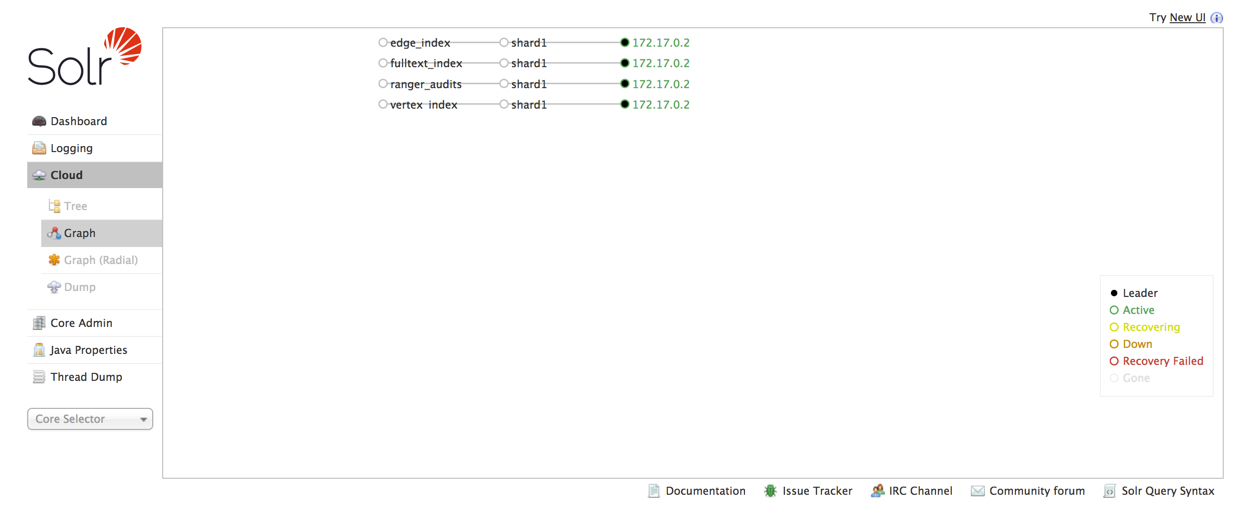
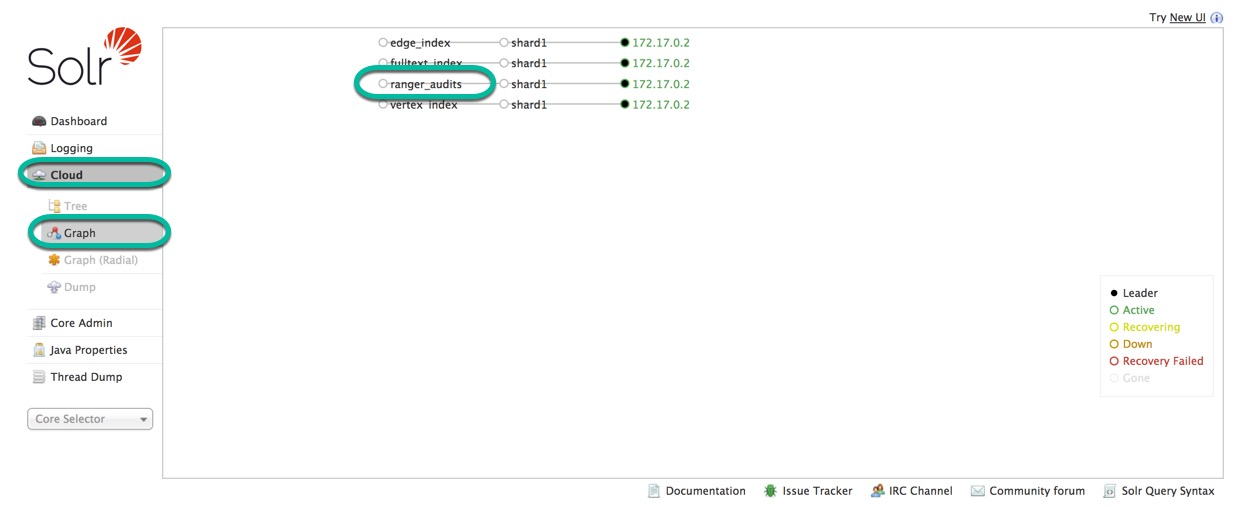
minor changes

diff --git a/tutorials/hdp/tag-based-policies-with-apache-ranger-and-apache-atlas/tutorial.md b/tutorials/hdp/tag-based-policies-with-apache-ranger-and-apache-atlas/tutorial.md
@@ -158,10 +158,15 @@ Stopping a service uses a similar approach as in section **2.1**, but instead of
 
 > Note: sometimes **Atlas Metadata Server** will fail to restart, all you need to do is go to the component and individually start it
 
-### 2.4 Verify "ranger_audits" Infra Solr Collection Created
+### 2.4 Verify "ranger_audits" is created in Ambari Infra Solr
 
-Once we restart Ranger, it should go into Infra Solr and create a new Solr
-Collection called "ranger_audits" as in the picture below:
+Once we restart Ranger, you should verify that **ranger_audits** is started:
+
+**Ambari** -> **Ambari Infra** -> **Quick Links** -> **Solr Admin UI**
+
+Make sure "ranger_audits" is displayed in Ambari Infra Solr as in the picture below:
+
+**Dashboard** -> **Cloud** -> **Graph**
 
 ![verify_ranger_audit_solr_collection_created](assets/images/verify_ranger_audit_solr_collection_created.jpg)
 
@@ -213,7 +218,7 @@ Press `Sign In` button, the home page of Ranger will be displayed.
 
 **Figure 14: Ranger Resource Based Policies Dashboard**
 
-3\. You will see a list of all the policies under the Sandbox_hive repository. Select policy called: **policy for raj_ops, holger_gov, maria_dev and amy_ds**
+3\. You will see a list of all the policies under the Sandbox_hive repository. Edit policy called: **policy for raj_ops, holger_gov, maria_dev and amy_ds**
 
 ![click_policy_for_all_users_rajops](assets/images/click_policy_for_all_users_rajops.png)
 
@@ -338,7 +343,7 @@ This policy will be assigned to `maria_dev` and `raj_ops`.
 3\. In the `Policy Details`, enter following values:
 
 ~~~
-Policy Names - policy to restrict employee data
+Policy Name - policy to restrict employee data
 Hive Databases - default
 table - employee
 Hive_column - ssn, location (NOTE : Do NOT forget to EXCLUDE these columns)
@@ -402,7 +407,7 @@ select * from employee;
 Authorization error will appear. This is expected as the user `maria_dev` and
 `raj_ops` do not have access to 2 columns in this table (ssn and location).
 
-4\. For further verification, you can view the **Audits** tab in Ranger.
+4\. For further verification, you can view the **Audit** tab in Ranger.
 Go back to Ranger and click on `Audits=>Access` and select
 `Service Name=>Sandbox_hive`. You will see the entry of Access Denied
 for maria_dev. maria_dev tried to access data she didn't have authorization
@@ -435,7 +440,7 @@ with a `PII` tag. So later when we create a Ranger Tag Based Policy, users
 who are associated with the `PII` tag can override permissions established in
 the Ranger Resource Board policy.
 
-1\. Login into Atlas web app using `http://sandbox.hortonworks:21000/`.
+1\. Login into Atlas web app using `http://sandbox.hortonworks.com:21000/`.
 
 - username **holger_gov** and password **holger_gov**.
 
